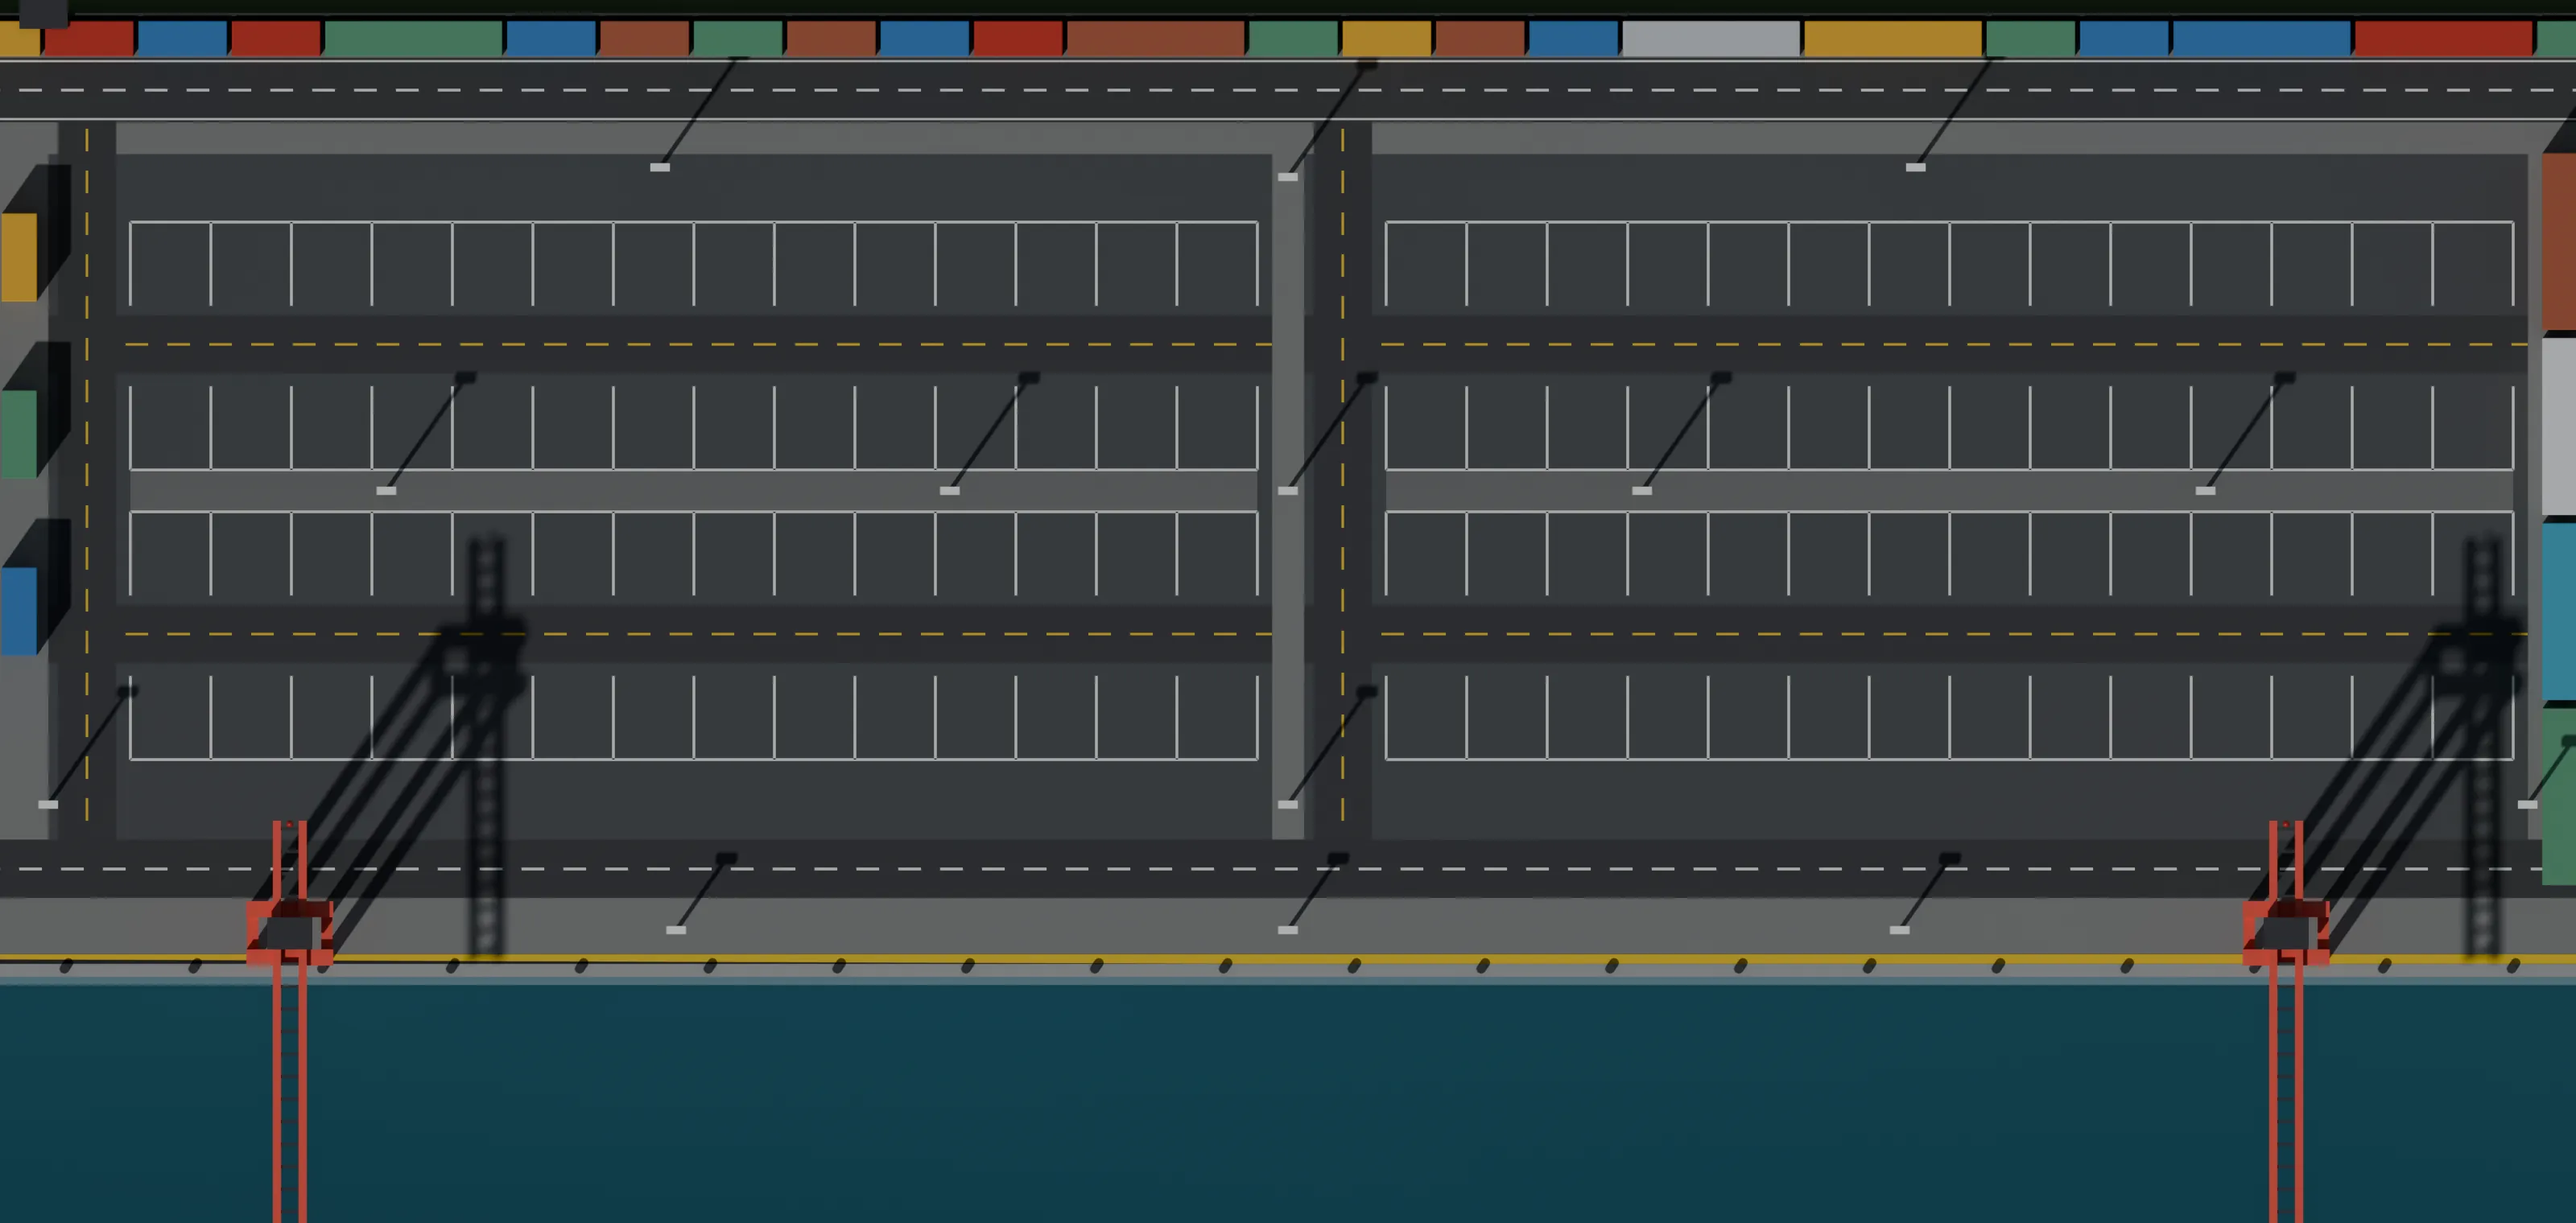
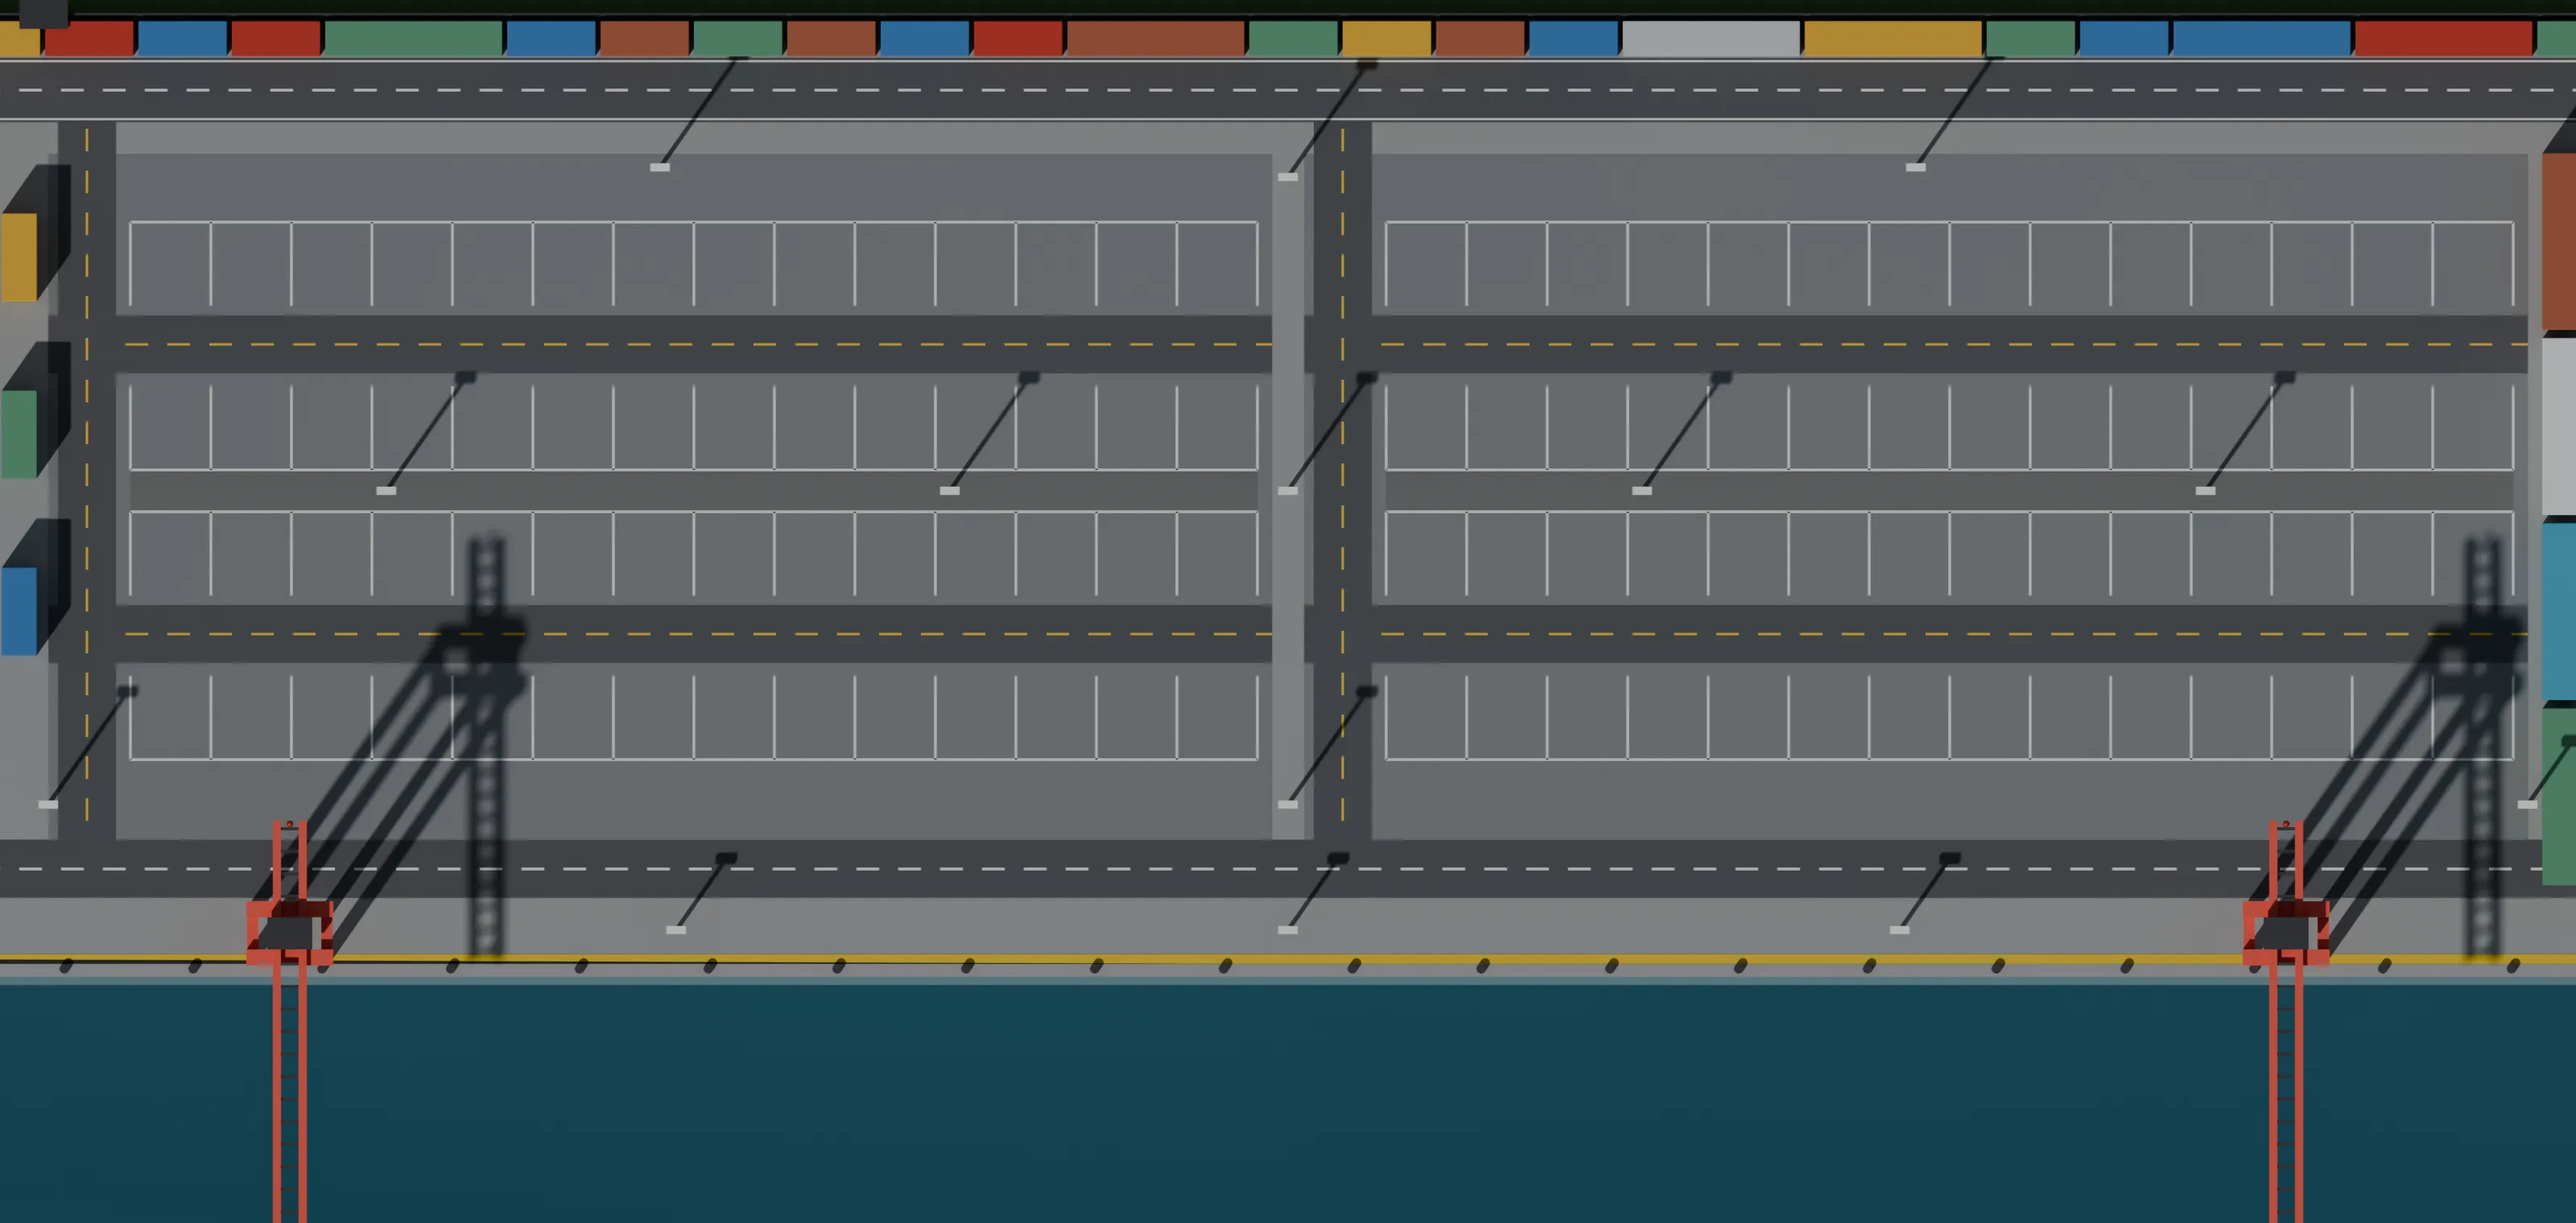
Порт: светлая стоянка, кнопки карточки на телефоне
- подложка перерисована: светлый бетон стоянки и серый асфальт проездов
  вместо тёмного асфальта (design/blender/port.py, версия ассетов 10)
- в нижней карточке на телефоне главная кнопка во всю ширину, две другие в ряд

Claude-Session: https://claude.ai/code/session_01VpMdufsLMDxyyWuN5c2SYn

diff --git a/renalauto/static/port.js b/renalauto/static/port.js
@@ -5,7 +5,7 @@
   const dataEl = document.getElementById('port-data');
   if (!root || !dataEl) return;
   const NS = 'http://www.w3.org/2000/svg';
-  const ASSETS = '/static/port', V = '9';  // V — поднять после перерендера
+  const ASSETS = '/static/port', V = '10';  // V — поднять после перерендера
   // Порт всегда дневной: светлая сцена продаёт лучше. Ночная подложка — только по ?night=1
   const NIGHT = new URLSearchParams(location.search).get('night') === '1';
   const PLATE = NIGHT ? '-night' : '';
@@ -755,7 +755,7 @@
         <div class="pop-actions">
           ${d.calc && window.RenalCalc ? '<button class="btn" type="button" data-act="breakdown">Разобрать цену под ключ</button>' : ''}
           <button class="btn${d.calc && window.RenalCalc ? ' ghost' : ''}" type="button" data-act="want">Хочу эту</button>
-          <button class="btn ghost" type="button" data-act="trip">Как она поедет ко мне →</button>
+          <button class="btn ghost" type="button" data-act="trip">Как она поедет →</button>
         </div>
         ${d.path ? `<a class="small" href="${esc(d.path)}" data-act="more">Подробнее о машине →</a>` : ''}
       </div>`;

diff --git a/renalauto/static/app.css b/renalauto/static/app.css
@@ -303,6 +303,7 @@ table.leads th, table.leads td { border-bottom: 1px solid var(--line); padding: 
   max-height: 62vh; overflow: auto; padding-bottom: env(safe-area-inset-bottom); box-shadow: 0 -12px 40px rgba(11,40,70,.3); animation: sheet-in .25s ease-out; }
 .port-pop.sheet .pop-ph { aspect-ratio: 21 / 9; }
 .port-pop.sheet .pop-actions { grid-template-columns: 1fr 1fr; }
+.port-pop.sheet .pop-actions > :first-child:nth-last-child(3) { grid-column: 1 / -1; }
 @keyframes sheet-in { from { transform: translateY(100%); } }
 body.pop-sheet .cta-bar { display: none; }
 .port-section { margin: 32px 0 8px; }

diff --git a/design/blender/port.py b/design/blender/port.py
@@ -358,9 +358,9 @@ def ground(W, H, quay, m_ground, m_water, m_hazard, m_concrete):
 def yard_wide():
     k = WIDE
     W, H, road, apron, quay, zw = k["W"], k["H"], k["road"], k["apron"], k["quay"], k["zone_w"]
-    m_ground = noisy("ground", (0.2, 0.2, 0.19), (0.27, 0.27, 0.26), scale=0.03)
-    m_yard = noisy("yard", (0.075, 0.078, 0.082), (0.11, 0.112, 0.115), scale=0.05, stains=True)
-    m_road = noisy("road", (0.05, 0.052, 0.056), (0.075, 0.077, 0.08), scale=0.06, stains=True)
+    m_ground = noisy("ground", (0.3, 0.3, 0.29), (0.38, 0.38, 0.37), scale=0.03)
+    m_yard = noisy("yard", (0.2, 0.205, 0.21), (0.26, 0.265, 0.27), scale=0.05, stains=True)  # светлый бетон
+    m_road = noisy("road", (0.09, 0.093, 0.1), (0.125, 0.128, 0.135), scale=0.06, stains=True)
     m_white = mat("white", (0.78, 0.78, 0.74), rough=0.7)
     m_yellow = mat("yellow", (0.8, 0.55, 0.06), rough=0.7)
     m_conc = noisy("concrete", (0.32, 0.32, 0.31), (0.4, 0.4, 0.39), scale=0.08, stains=True)
@@ -441,9 +441,9 @@ def yard_wide():
 def yard_narrow():
     k = NARROW
     W, H, lane, quay = k["W"], k["H"], k["lane"], k["quay"]
-    m_ground = noisy("ground", (0.2, 0.2, 0.19), (0.27, 0.27, 0.26), scale=0.03)
-    m_yard = noisy("yard", (0.075, 0.078, 0.082), (0.11, 0.112, 0.115), scale=0.05, stains=True)
-    m_road = noisy("road", (0.05, 0.052, 0.056), (0.075, 0.077, 0.08), scale=0.06, stains=True)
+    m_ground = noisy("ground", (0.3, 0.3, 0.29), (0.38, 0.38, 0.37), scale=0.03)
+    m_yard = noisy("yard", (0.2, 0.205, 0.21), (0.26, 0.265, 0.27), scale=0.05, stains=True)  # светлый бетон
+    m_road = noisy("road", (0.09, 0.093, 0.1), (0.125, 0.128, 0.135), scale=0.06, stains=True)
     m_white = mat("white", (0.78, 0.78, 0.74), rough=0.7)
     m_yellow = mat("yellow", (0.8, 0.55, 0.06), rough=0.7)
     m_conc = noisy("concrete", (0.32, 0.32, 0.31), (0.4, 0.4, 0.39), scale=0.08, stains=True)
@@ -483,7 +483,7 @@ def render_yard(kind, out):
         moon = sun(0.09)
         moon.data.color = (0.7, 0.8, 1)
     else:
-        sc.view_settings.exposure = -0.9
+        sc.view_settings.exposure = -0.75
         sky()
         sun()
     W, H = yard_wide() if kind == "wide" else yard_narrow()
